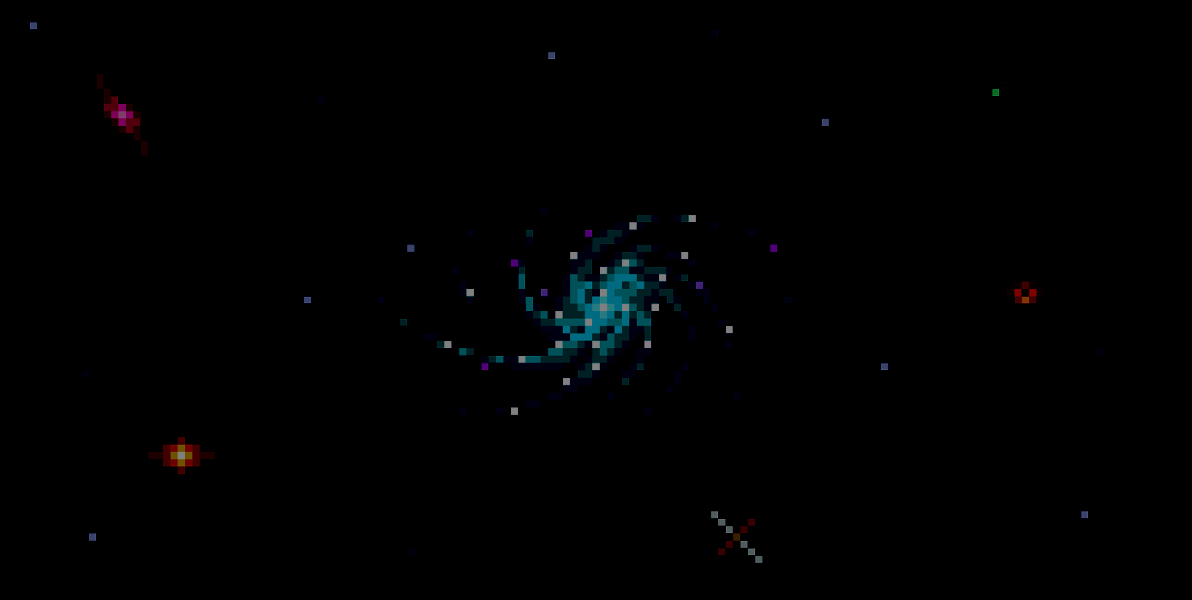
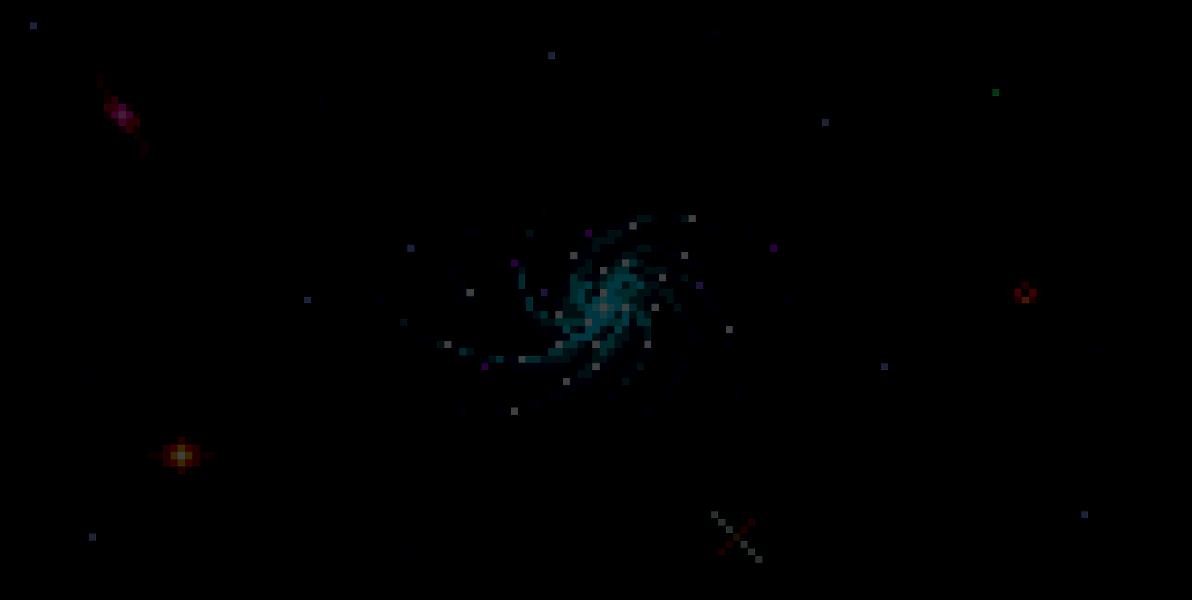
-

diff --git a/space.py b/space.py
@@ -15,16 +15,13 @@ FPS = 60
 SPEED = 8  # default 12
 DAMAGE = 50  # damage that player do in enemys
 ANIMATION_SPEED = 0.02
-BG = pygame.image.load(path.join(PATH_TO_ASSETS, 'backgrounds', 'space.png'))
 FONT_COLOR = (225, 225, 255)
 
 clock = pygame.time.Clock()
 
 # Definindo eventos automaticos
 BOT_SHOOT = pygame.event.Event(USEREVENT + 1)
-NEXT_STAGE = pygame.event.Event(USEREVENT + 3)
 
-# pygame.time.set_timer(BOT_SHOOT.type, 240)
 pygame.time.set_timer(BOT_SHOOT.type, 512)
 
 # load images
@@ -101,7 +98,7 @@ class Player(pygame.sprite.Sprite):
             bullets_player_group.add(Bullet(self))
 
     def take_damage(self):
-        self.hp -= 1
+        self.hp -= 0
 
 
 class Battery():
@@ -127,17 +124,17 @@ class Battery():
             self.charge += 1
 
         if self.charge >= 100:
-            self.img = self.sprites[f'battery{3}.png']
+            self.img = self.sprites['battery3.png']
             self.blocked = False
 
         elif self.charge >= 75:
-            self.img = self.sprites[f'battery{2}.png']
+            self.img = self.sprites['battery2.png']
 
         elif self.charge > 25:
-            self.img = self.sprites[f'battery{1}.png']
+            self.img = self.sprites['battery1.png']
 
         elif self.charge > 0:
-            self.img = self.sprites[f'battery{0}.png']
+            self.img = self.sprites['battery0.png']
 
         else:
             self.blocked = True
@@ -147,7 +144,6 @@ class Battery():
         surf.blit(pygame.transform.scale(self.img, dimensions), self.rect)
 
 
-# Entities
 class Bullet(pygame.sprite.Sprite):
     def __init__(self, src, enemy=False):
         pygame.sprite.Sprite.__init__(self)
@@ -320,24 +316,24 @@ class Platform(pygame.sprite.Sprite):
         self.alive = True
 
 
-# Screens
 class Menu():
     def __init__(self, callbacks={}):
+        self.bg = load_image('space', 'bg-menu.png', 1)
+
         self.buttons = {
             'start': Button('center', 15, 'Play!', callbacks['start_space']),
-            'game_over': Button('center', screen_size[1]/4, 'Try Again')
-        }
+            'game_over': Button('center', screen_size[1]/4, 'Try Again')}
 
-    def listen(self, event):
-        keys = {
+        self.keys = {
             'start': [K_RETURN, K_SPACE],
             'exit': [K_ESCAPE, K_BACKSPACE]}
 
+    def listen(self, event):
         if event.type == KEYDOWN:
-            if event.key in keys['exit']:
+            if event.key in self.keys['exit']:
                 sys.exit()
 
-            if event.key in keys['start']:
+            if event.key in self.keys['start']:
                 self.buttons['start'].callback()
 
         if event.type == MOUSEBUTTONDOWN:
@@ -348,13 +344,13 @@ class Menu():
         pass
 
     def draw(self, surf):
-        surf.blit(BG, (0, 0))
+        surf.blit(self.bg, (0, 0))
 
         self.buttons['start'].draw(surf)
 
         draw_text(
             surf,
-            f'SPACE v2',
+            f'SPACE v2.1',
             screen_size[0] * .5,
             screen_size[1] - 150,
             size=20, color=FONT_COLOR, align='center')
@@ -365,7 +361,7 @@ class Menu():
             screen_size[0] * .5,
             screen_size[1] - 100,
             size=20, color=FONT_COLOR, align='center')
-        
+
         draw_text(
             surf,
             f'Testado por Samuel',
@@ -376,7 +372,7 @@ class Menu():
 
 class Space():
     def __init__(self, boss=False, callbacks={}):
-        self.bg_image = load_image('space', 'bg-space1.png', 1)
+        self.bg_image = load_image('space', 'bg-space.png', 1)
         self.bg_size = self.bg_image.get_size()
         self.bg_x = self.bg_size[0] // 2 - screen_size[0]
         self.bg_shift = 0
@@ -587,10 +583,6 @@ class Game():
 
     def listen(self):
         for event in pygame.event.get():
-            # Eventos Disparados em Qualquer Momento
-            if event.type == QUIT:
-                sys.exit()
-
             if event.type == KEYDOWN and event.key == K_F4:
 
                 if screen.get_flags() & FULLSCREEN:
@@ -604,7 +596,6 @@ class Game():
             if self.on_space:
                 self.space.listen(event)
 
-            # Eventos So Disparados enquanto morto
             if self.on_end:
                 pass
                 # if event.type == KEYDOWN and event.key == K_RETURN:
@@ -641,7 +632,6 @@ class Game():
 
 # start
 player = Player()
-# print([i for i in range(0, 100000, 500)])
 
 
 def make_groups():

diff --git a/race.py b/race.py
@@ -1,0 +1,102 @@
+# -*- coding: utf-8 -*-
+import pygame
+import sys
+import random
+from os import path
+from pygame.locals import *
+from pygame.sprite import groupcollide, spritecollide
+from util import *
+
+
+pygame.display.set_caption('Race')
+clock = pygame.time.Clock()
+
+FPS = 60
+SPEED = 8  # default 8
+ANIMATION_SPEED = 0.1
+
+
+class Car(pygame.sprite.Sprite):
+    def __init__(self):
+
+        self.sprites = {}
+
+        for _ in glob.glob(path.join(PATH_TO_ASSETS, 'race', 'car-*-*.png')):
+            self.sprites[path.basename(_)] = pygame.image.load(_)
+
+        self.state = 'idle'
+        self.sprite_i = 0
+        self.image = self.sprites[
+            f'car-{self.state}-{int(self.sprite_i)}.png']
+        self.width, self.height = self.image.get_size()
+
+        self.x = int(screen_size[0] * .5 - self.width * .5)
+        self.y = int(screen_size[1] * .8)
+
+        self.rect = Rect(self.x, self.y, self.width, self.height)
+
+    def update(self):
+        self.sprite_i = (self.sprite_i + ANIMATION_SPEED) % 2
+        self.image = self.sprites[
+            f'car-{self.state}-{int(self.sprite_i)}.png']
+
+    def draw(self, surf):
+        surf.blit(self.image, self.rect)
+
+
+class Velocimetro:
+    pass
+
+
+class Road:
+    def __init__(self):
+        self.points = [
+            (int(screen_size[0] * .25), screen_size[1]),
+            (int(screen_size[0] * .40), int(screen_size[1] * .50)),
+            (int(screen_size[0] * .60), int(screen_size[1] * .50)),
+            (int(screen_size[0] * .75), screen_size[1])]
+
+    def update(self):
+        pass
+
+    def draw(self, surf):
+        pygame.draw.polygon(
+            surf,
+            (100, 100, 100),
+            self.points)
+
+
+class Game:
+    def __init__(self):
+        self.road = Road()
+
+    def listen(self):
+        for event in pygame.event.get():
+            if event.type == QUIT:
+                sys.exit()
+
+            if event.type == KEYDOWN and event.key == K_F4:
+
+                if screen.get_flags() & FULLSCREEN:
+                    pygame.display.set_mode(screen_size)
+                else:
+                    pygame.display.set_mode(screen_size, pygame.FULLSCREEN)
+
+    def update(self):
+        self.road.update()
+        car.update()
+
+    def draw(self, surf):
+        self.road.draw(surf)
+        car.draw(surf)
+        pygame.display.flip()
+
+
+game = Game()
+car = Car()
+
+while True:
+    clock.tick(FPS)
+    game.listen()
+    game.update()
+    game.draw(screen)

diff --git a/little-snake.py b/little-snake.py
@@ -23,10 +23,11 @@ config = False
 pygame.init()
 pygame.display.init()
 pygame.display.set_caption('Little Snake')
-font = pygame.font.Font('Assets/pixel-font.ttf', 25)
+font = pygame.font.Font('assets/pixel-font.ttf', 25)
 
 screen = pygame.display.set_mode((screen_size_X, screen_size_Y))
 clock = pygame.time.Clock()
+
 
 class Canvas():
     def __init__(self):
@@ -75,23 +76,23 @@ class World():
         apple.update()
         pygame.display.update()
 
-class Button():
-    def __init__(self, tamX, tamY, posX, posY, text = '', flat = False):
-        self.tamX = tamX
-        self.tamY = tamY
-        self.posX = posX
-        self.posY = posY
-        self.text = text
-        self.flat = flat
+# class Button():
+#     def __init__(self, tamX, tamY, posX, posY, text = '', flat = False):
+#         self.tamX = tamX
+#         self.tamY = tamY
+#         self.posX = posX
+#         self.posY = posY
+#         self.text = text
+#         self.flat = flat
 
-    def update(self, text):
-        color_text = player.color if self.flat else world.bg_color
-        color_bg = world.bg_color if self.flat else player.color
-        pygame.draw.rect(screen, color_bg, [self.posX, self.posY, self.tamX, self.tamY])
-        screen.blit(font.render(text, True, color_text), [self.posX + self.tamX * 0.10 , self.posY + 1])
+#     def update(self, text):
+#         color_text = player.color if self.flat else world.bg_color
+#         color_bg = world.bg_color if self.flat else player.color
+#         pygame.draw.rect(screen, color_bg, [self.posX, self.posY, self.tamX, self.tamY])
+#         screen.blit(font.render(text, True, color_text), [self.posX + self.tamX * 0.10 , self.posY + 1])
 
-    def isClicked(self, mouseX, mouseY):
-        return (mouseX > self.posX and mouseX < self.posX + self.tamX and mouseY > self.posY and mouseY < self.posY + self.tamY)
+#     def isClicked(self, mouseX, mouseY):
+#         return (mouseX > self.posX and mouseX < self.posX + self.tamX and mouseY > self.posY and mouseY < self.posY + self.tamY)
 
 
 
@@ -318,7 +319,7 @@ while True:
                     player.last_direction = player.direction
                     player.direction = 'LEFT'
 
-                if (event.key keys_right) and player.direction != 'LEFT':
+                if (event.key in keys_right) and player.direction != 'LEFT':
                     player.last_direction = player.direction
                     player.direction = 'RIGHT'
 
